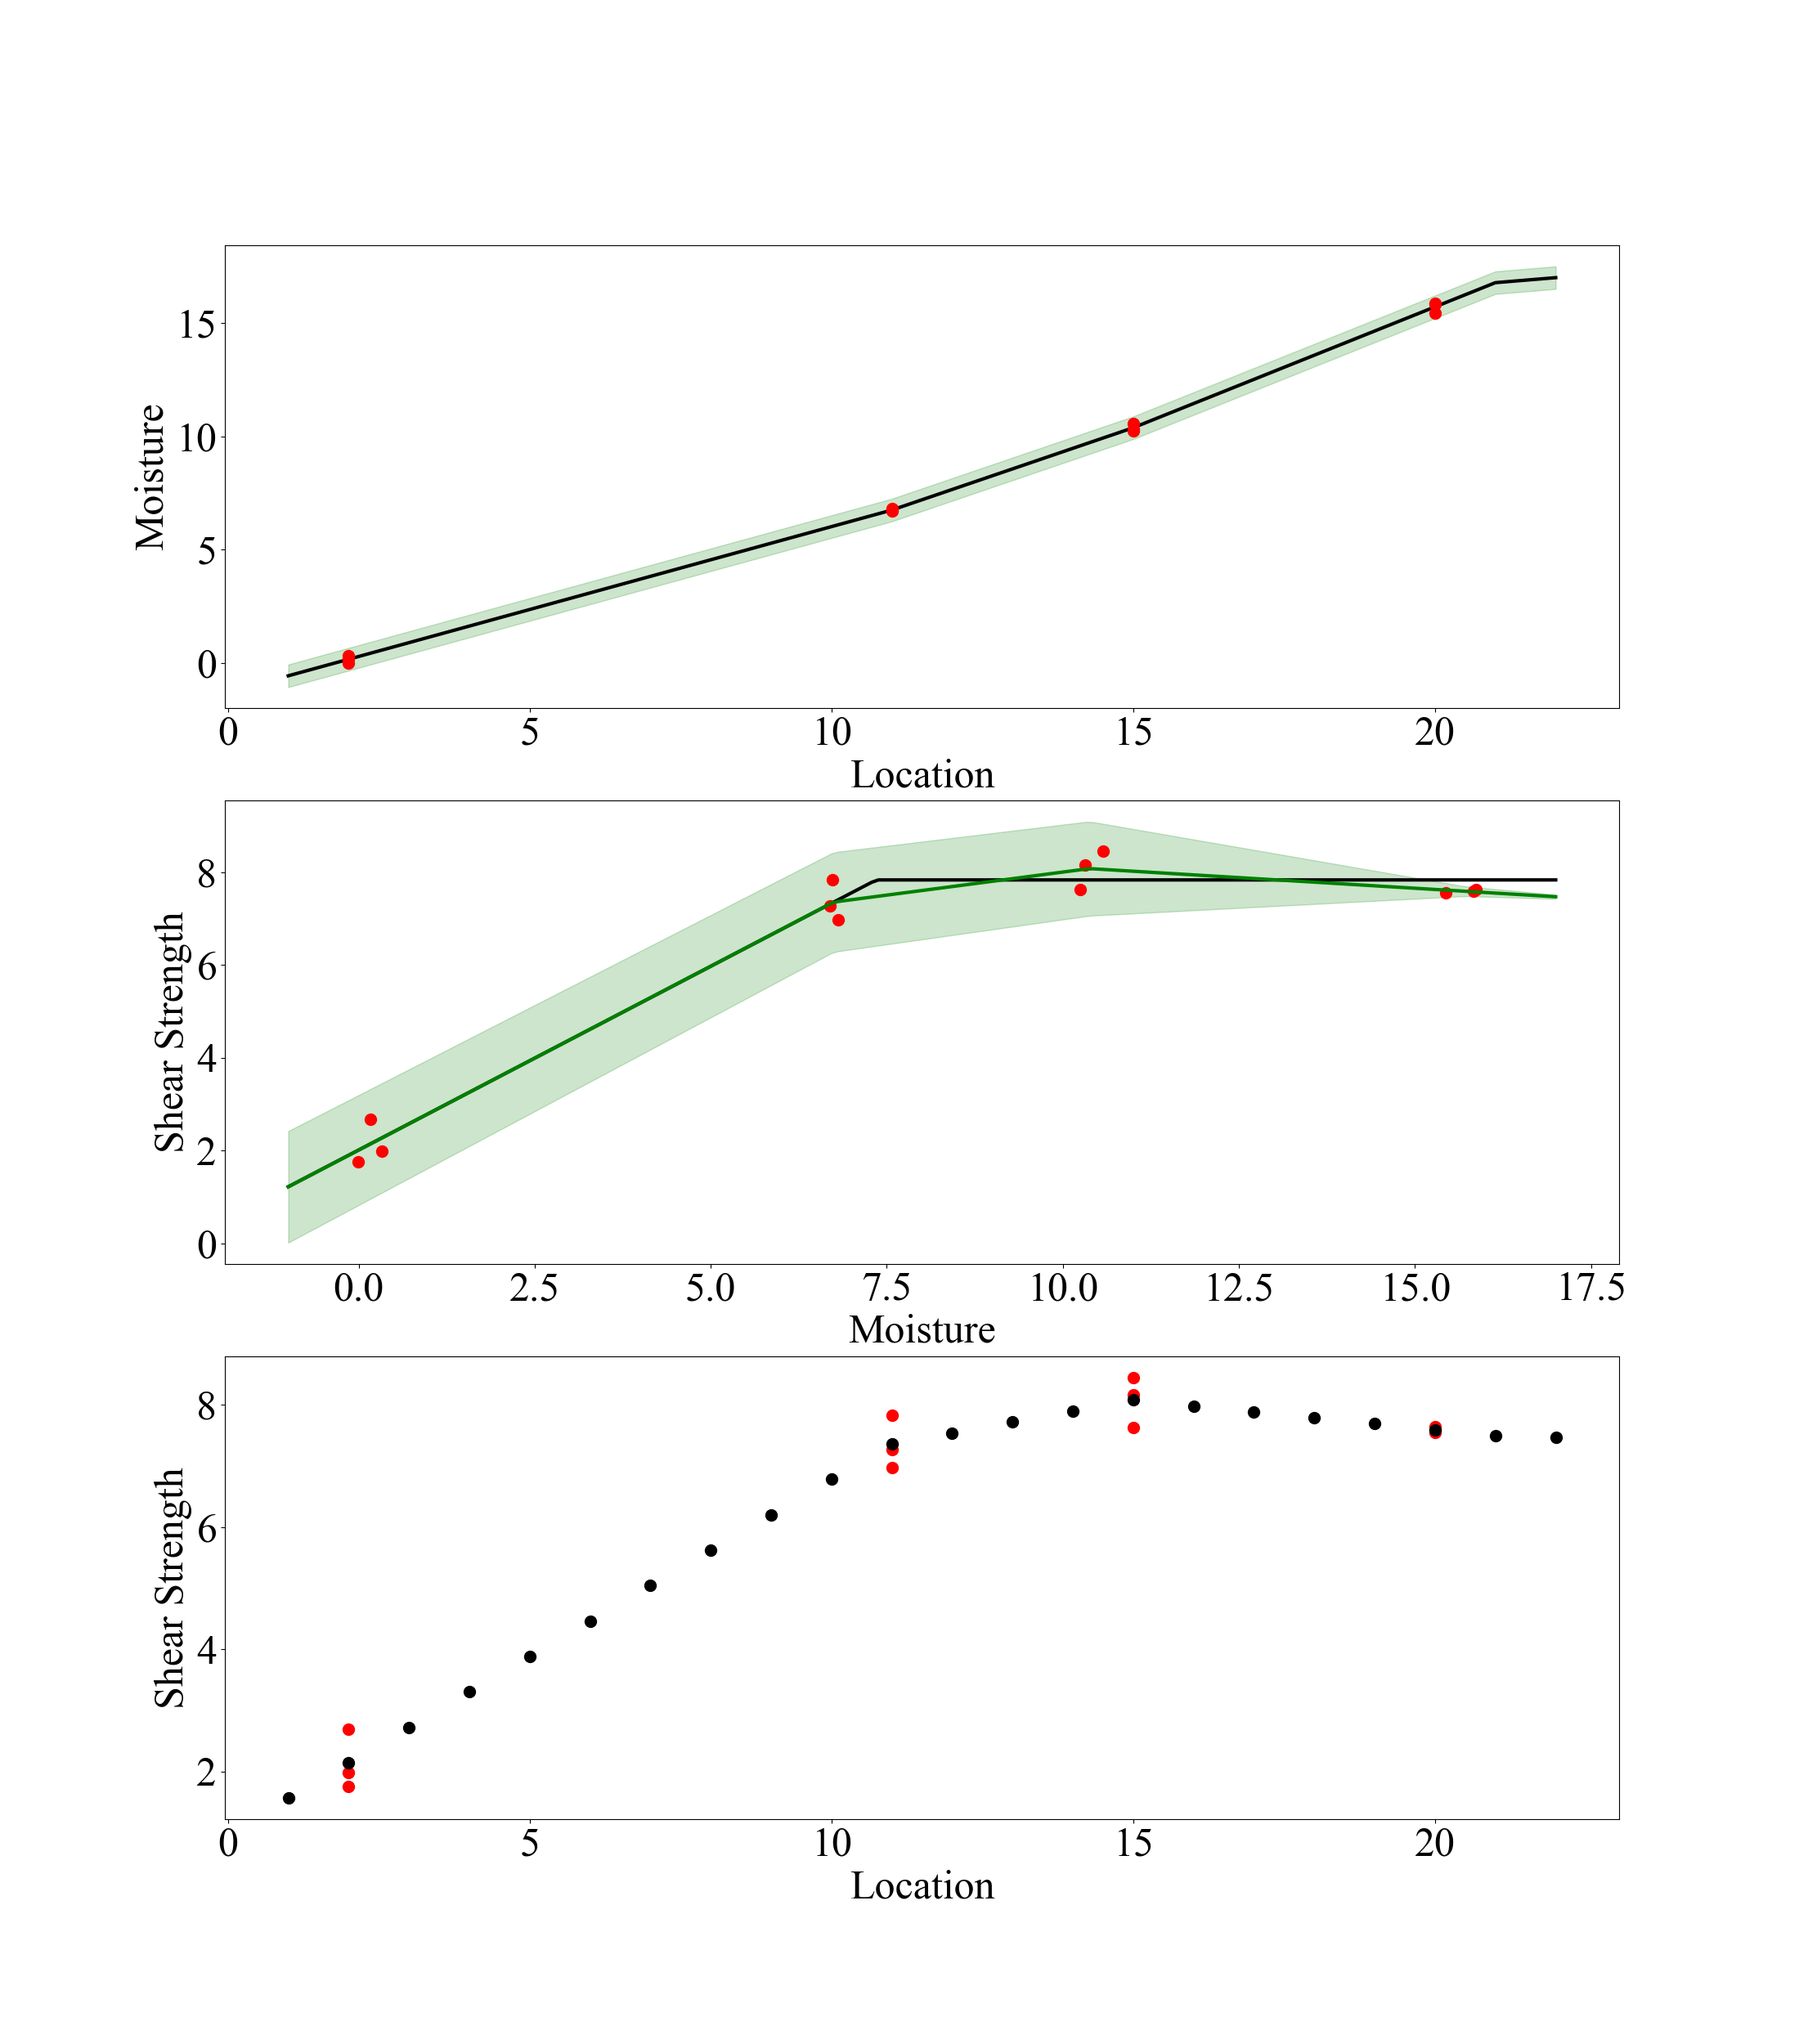
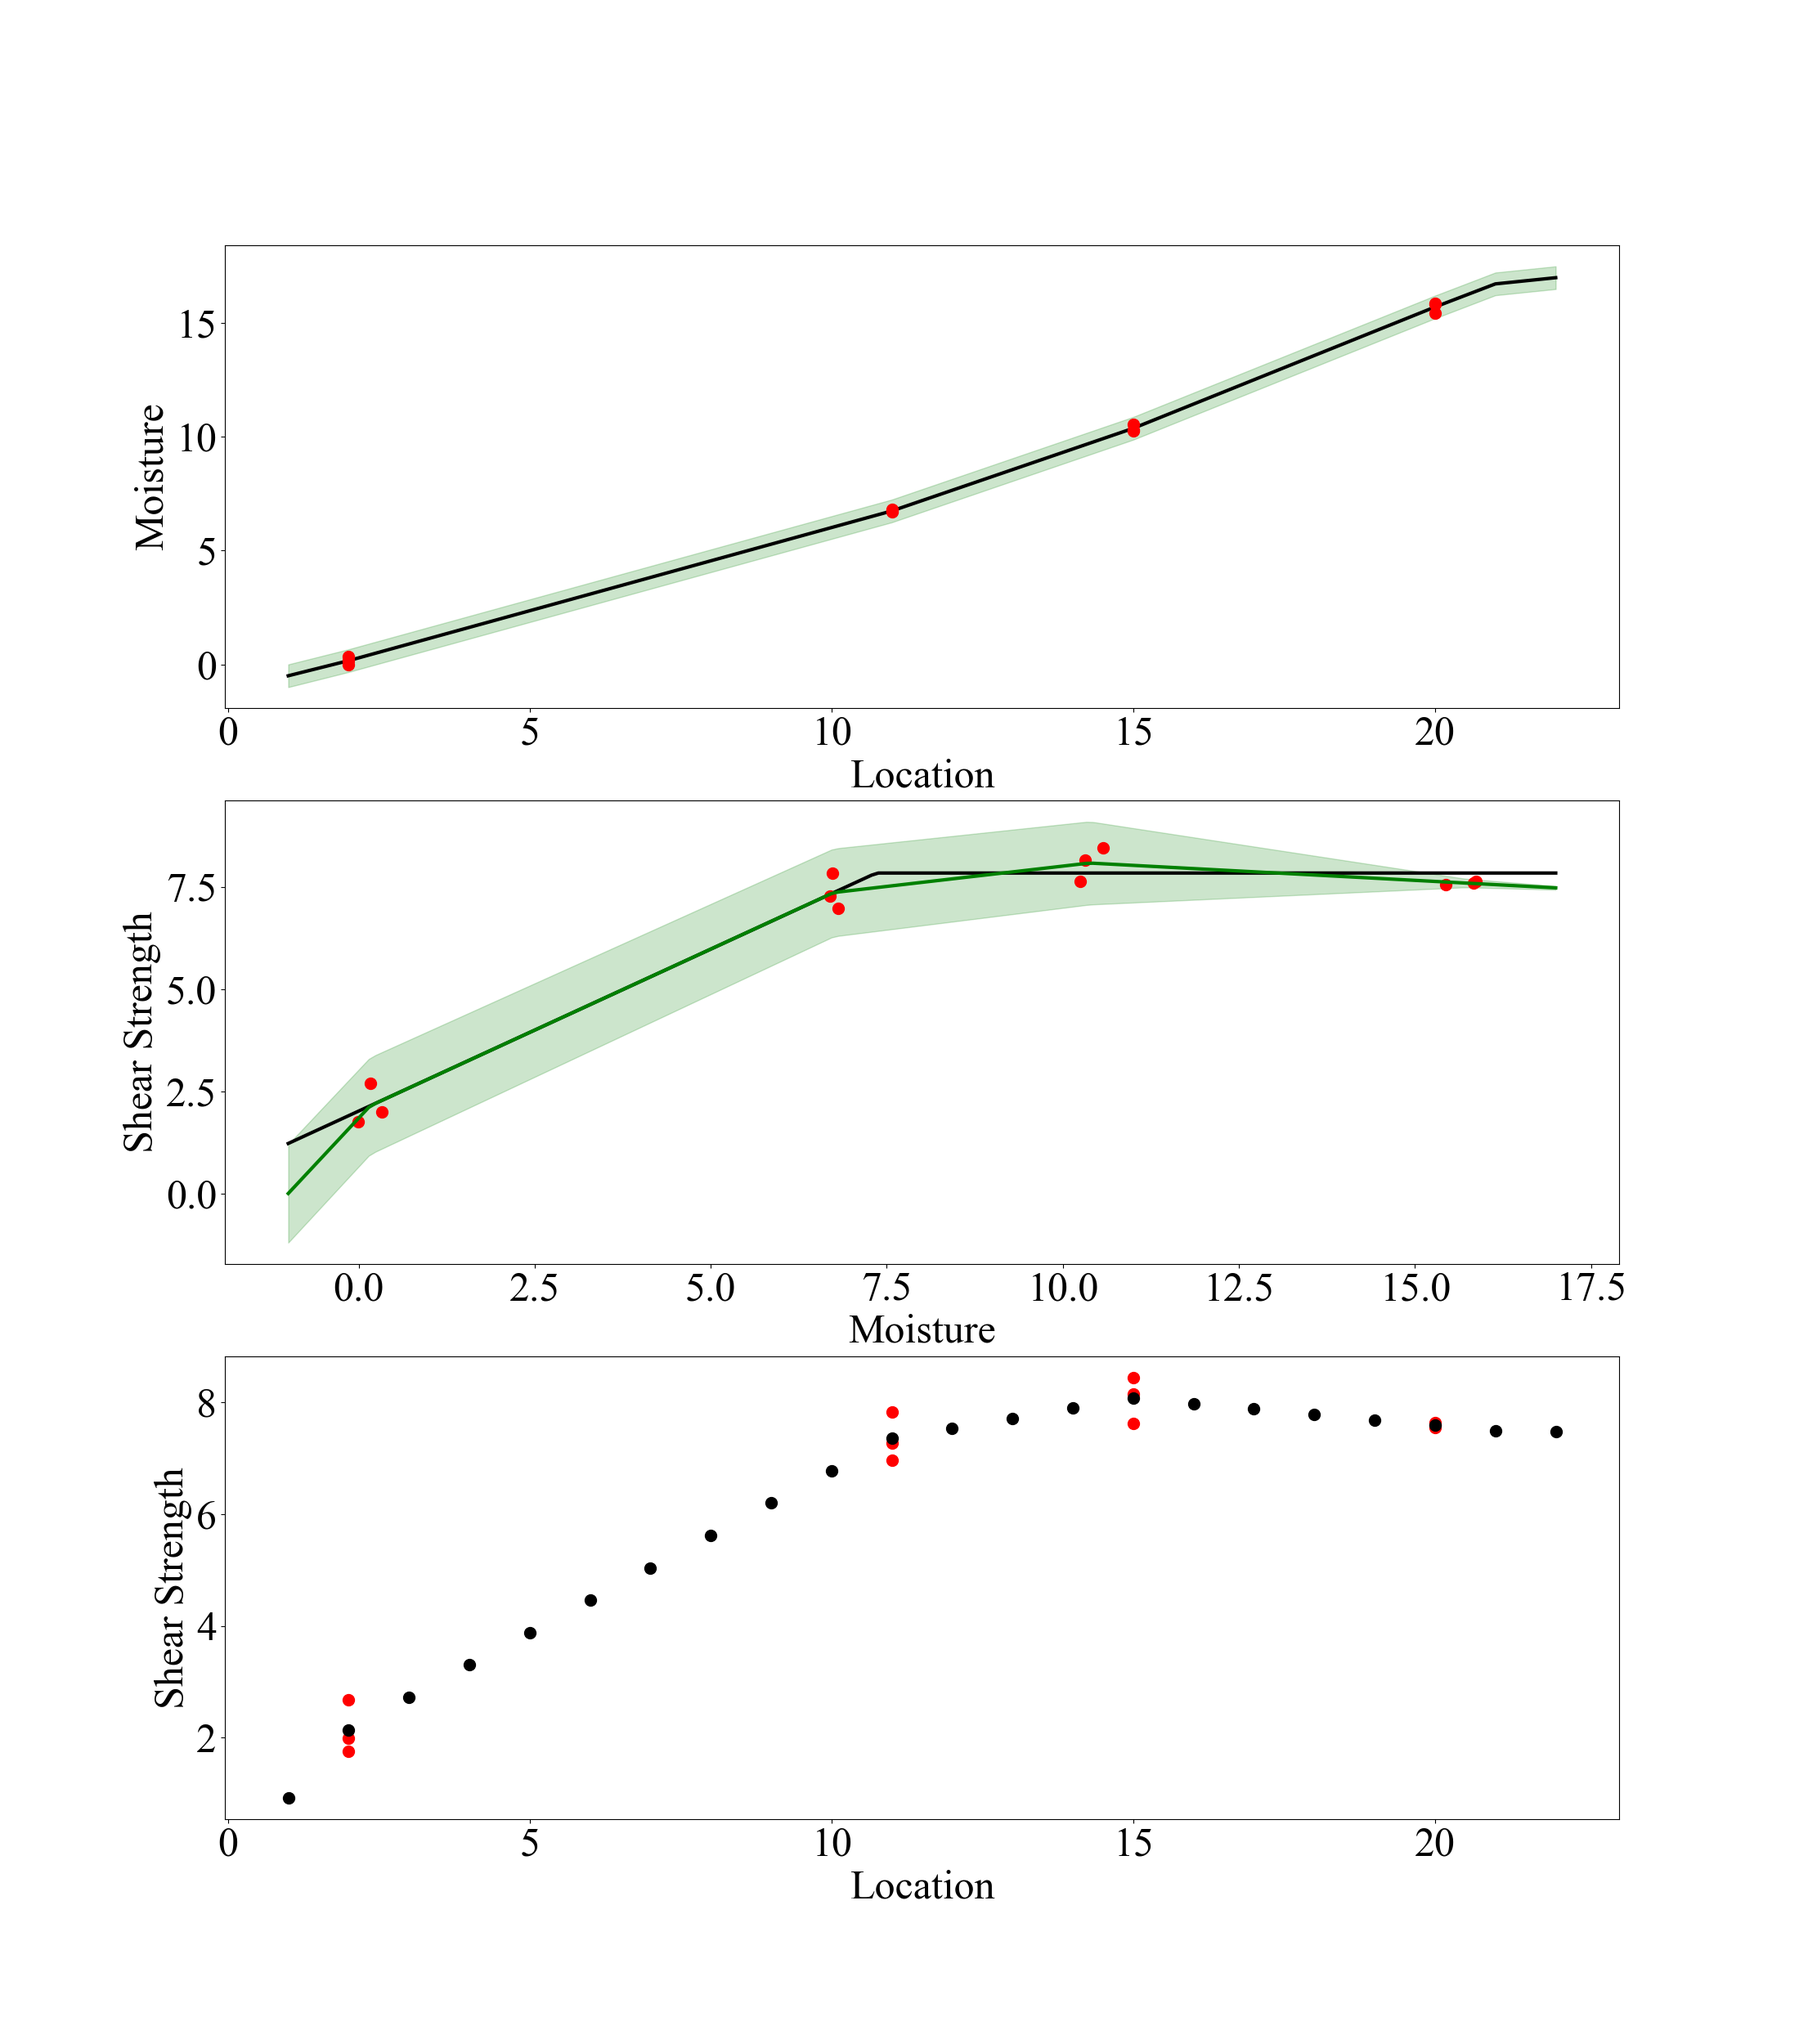
fix: 1. change variable to continuous predicttion;2. fix selection 22 bugs; 3, upgrade debugging plot

diff --git a/flask/traveler_decision_making.py b/flask/traveler_decision_making.py
@@ -308,82 +308,74 @@ class DecisionMaking:
         min_moisture_each = np.zeros(22)
         max_moisture_each = np.zeros(22)
         std_moisture_each = np.zeros(22)
-        for jj in range(len(location)):
-            if(jj == 0):
-                moisture = self.current_state_moisture[jj]
+        location_each = np.linspace(1, 22, 22)
+        for jj in range(len(location_each)):
+            if(location_each[jj] <= location[0]):
+                moisture = self.current_state_moisture[0]
                 moisture_mean = np.mean(moisture)
                 moisture_std = np.std(moisture)
                 ## find the next point b
-                moisture_next = self.current_state_moisture[jj+1]
+                moisture_next = self.current_state_moisture[1]
                 moisture_mean_next = np.mean(moisture_next)
                 moisture_std_next = np.std(moisture_next)
                 ## compute the slope of ab
                 slope = ((moisture_mean_next - moisture_mean) 
-                                / (location[jj+1] - location[jj]))
-                for loc in range(location[jj]):
-                    std_moisture_each[loc] = moisture_std
-                    mean_moisture_each[loc] = moisture_mean - slope * ( 
-                                                        location[jj] - loc - 1)
-                    min_moisture_each[loc] =  min(moisture_mean - 
-                            2 * slope * (location[jj] - 1 - loc), moisture_mean)  
-                    max_moisture_each[loc] = max(moisture_mean - 
-                            2 * slope * (location[jj] - 1 - loc), moisture_mean)
-            elif(jj == len(location) - 1):
-                moisture = self.current_state_moisture[jj]
+                                / (location[1] - location[0]))
+                slope_std = ((moisture_std_next - moisture_std) 
+                                / (location[1] - location[0]))
+                moisture_font = moisture_mean - slope * (location[0] - 1)
+                std_font = max(0, moisture_std - slope_std * (location[0] - 1))
+                m_font = interp1d([0.9, location[0]], [moisture_font, moisture_mean], kind = 'linear')
+                std_m_font = interp1d([0.9, location[0]], [std_font, moisture_std], kind = 'linear')
+                std_moisture_each[jj] = std_m_font(location_each[jj])
+                mean_moisture_each[jj] = m_font(location_each[jj])
+                                        
+            elif(location_each[jj] >= location[len(location)-1]):
+                moisture = self.current_state_moisture[len(location)-1]
                 moisture_mean = np.mean(moisture)
                 moisture_std = np.std(moisture)
-                moisture_prev = self.current_state_moisture[jj-1] 
+                moisture_prev = self.current_state_moisture[len(location)-2] 
                 moisture_mean_prev = np.mean(moisture_prev)
                 moisture_std_prev = np.std(moisture_prev)
-                slope = (moisture_mean - moisture_mean_prev) / (location[jj]
-                             - location[jj-1])
-                for loc in range(location[jj], 22):
-                    std_moisture_each[loc] = moisture_std
-                    mean_moisture_each[loc] = moisture_mean + slope * (
-                                                        loc - location[jj] + 1)
-                    min_moisture_each[loc] =  min(moisture_mean + 
-                            2 * slope * (22 - location[jj]), moisture_mean)  
-                    max_moisture_each[loc] = max(moisture_mean +
-                            2 * slope * (22 - location[jj]), moisture_mean)   
-                for loc in range(location[jj-1], location[jj]):
-                    std_moisture_each[loc] = (moisture_std + moisture_std_prev)/2
-                    mean_moisture_each[loc] = moisture_mean + slope * (loc - 
-                                        location[jj] + 1)
-                    min_moisture_each[loc] = min(moisture_mean_prev, 
-                                        moisture_mean) 
-                    max_moisture_each[loc] = max(moisture_mean_prev,
-                                        moisture_mean) 
+                slope = (moisture_mean - moisture_mean_prev) / (location[len(location)-1]
+                             - location[len(location)-2])
+                slope_std = ((moisture_std - moisture_std_prev) 
+                                / (location[len(location)-1]
+                             - location[len(location)-2]))
+                moisture_end = moisture_mean + slope * (22 - location[len(location)-1])
+                std_end = max(0, moisture_std + slope_std * (22 - location[len(location)-1]))
+                m_end = interp1d([location[len(location)-1], 22.1], [moisture_mean, moisture_end], kind = 'linear')
+                std_m_end = interp1d([location[len(location)-1], 22.1], [moisture_std, std_end], kind = 'linear')
+                std_moisture_each[jj] = std_m_end(location_each[jj])
+                mean_moisture_each[jj] = m_end(location_each[jj])
+                
             else:
-                moisture = self.current_state_moisture[jj]
-                moisture_mean = np.mean(moisture)
-                moisture_std = np.std(moisture)
-                moisture_prev = self.current_state_moisture[jj-1] 
-                moisture_mean_prev = np.mean(moisture_prev)
-                moisture_std_prev = np.std(moisture_prev)
-                slope = (moisture_mean - moisture_mean_prev) / (location[jj]
-                             - location[jj-1])
-                for loc in range(location[jj-1], location[jj]):
-                    std_moisture_each[loc] = (moisture_std + moisture_std_prev)/2
-                    mean_moisture_each[loc] = moisture_mean + slope * (loc - 
-                                        location[jj] + 1)
-                    min_moisture_each[loc] = min(moisture_mean_prev, 
-                                        moisture_mean) 
-                    max_moisture_each[loc] = max(moisture_mean_prev,
-                                        moisture_mean) 
+                moisture = self.current_state_moisture
+                moisture_mean = np.zeros(len(moisture))
+                moisture_std = np.zeros(len(moisture))
+                for i in range(len(moisture)):
+                    moisture_mean[i] = np.mean(moisture[i])
+                    moisture_std[i] = np.std(moisture[i])
+                m_inter = interp1d(location, moisture_mean, kind = 'linear')
+                std_m_inter = interp1d(location, moisture_std, kind = 'linear')
+                std_moisture_each[jj] = std_m_inter(location_each[jj])
+                mean_moisture_each[jj] = m_inter(location_each[jj])
         R_v_set = np.zeros(22)
         std_moisture_each[np.where(std_moisture_each < 0)] = 0
         std_moisture_each[np.where(std_moisture_each > 1)] = 1
         self.std_moisture_each = std_moisture_each
         mean_moisture_each[np.where(mean_moisture_each < -1)] = -1
-        mean_moisture_each[np.where(mean_moisture_each > 17)] = 17
+        mean_moisture_each[np.where(mean_moisture_each > 18)] = 18
         self.mean_moisture_each = mean_moisture_each
-        self.min_moisture_each = min_moisture_each
-        self.max_moisture_each = max_moisture_each
+
         for jj in range(22):
-            std = std_moisture_each[loc]
+            std = std_moisture_each[jj]
             min_std = 0.01
             moisture_possibility = np.linspace(mean_moisture_each[jj] - 3*max(std, min_std), 
                                                 mean_moisture_each[jj] + 3*max(std, min_std), 20)
+            moisture_possibility[np.where(moisture_possibility < -1)] = -1
+            moisture_possibility[np.where(moisture_possibility > 17)] = 17
+            print(moisture_possibility)
             probability = gauss(mean_moisture_each[jj], 1, moisture_possibility,
                                                 max(std, min_std))
             actual_probability = probability/np.sum(probability)
@@ -464,7 +456,7 @@ class DecisionMaking:
                 shearstrength_std_next = yy_std[1]
                 slope = (shearstrengh_mean_next - shearstrength_mean)/(
                                     moisture_mean_next - moisture_mean)
-                shearstrengh_moisture_font = shearstrength_mean - slope * (moisture_mean + 1)
+                shearstrengh_moisture_font = min(0, shearstrength_mean - slope * (moisture_mean + 1))
                 slope_std = (shearstrength_std_next - shearstrength_std)/(
                                     moisture_mean_next - moisture_mean)
                 std_moisture_font = max(0, shearstrength_std - slope_std * (moisture_mean + 1))
@@ -513,6 +505,8 @@ class DecisionMaking:
                                                 self.mean_moisture_each[jj] + 3*std_moist, 20)
             moisture_possibility[np.where(moisture_possibility < -1)] = -1
             moisture_possibility[np.where(moisture_possibility > 17)] = 17
+            self.mean_moisture_each[np.where(self.mean_moisture_each < -1)] = -1
+            self.mean_moisture_each[np.where(self.mean_moisture_each > 17)] = 17
             if(self.mean_moisture_each[jj] <= xx_mean[0]):
                 mean_shear_strength = f_font(self.mean_moisture_each[jj])
             elif(self.mean_moisture_each[jj] >= xx_mean[len(xx_mean)-1]):
@@ -686,22 +680,21 @@ def deploy_plot(Traveler_DM ,sequence, location, sample, mm, erodi, results):
     fig, axs = plt.subplots(3,1, figsize=(22,25))
     x = np.linspace(1,22,22)
     axs[0].plot(x, Traveler_DM.mean_moisture_each, linewidth=3, label="variable_reward", c="black")
-    axs[0].plot(Traveler_DM.current_state_location, Traveler_DM.current_state_moisture, 'o', c="red",markersize=10)
+    for i in range(len(Traveler_DM.current_state_location)):
+        axs[0].plot(Traveler_DM.current_state_location[i] * np.ones(len(Traveler_DM.current_state_moisture[i])), Traveler_DM.current_state_moisture[i], 'o', c="red",markersize=10)
     axs[0].fill_between(np.linspace(1,22,22), Traveler_DM.mean_moisture_each +  0.5, Traveler_DM.mean_moisture_each -  0.5, alpha=0.2, color="green")
     axs[0].set_ylabel('Moisture')
     axs[0].set_xlabel('Location')
     axs[1].plot(Traveler_DM.x_detail_fit, Traveler_DM.xx_detail_model, linewidth=3,  c="black")
-    axs[1].plot(Traveler_DM.current_state_moisture, Traveler_DM.current_state_shear_strength, 'o', c="red",markersize=10)
+    for i in range(len(Traveler_DM.current_state_location)):
+        axs[1].plot(Traveler_DM.current_state_moisture[i], Traveler_DM.current_state_shear_strength[i], 'o', c="red",markersize=10)
     axs[1].plot(Traveler_DM.x_detail_fit, Traveler_DM.shearstrength_predict, c="green", linewidth=3)
     axs[1].fill_between(Traveler_DM.x_detail_fit, Traveler_DM.shearstrength_predict +  3*Traveler_DM.shearstrength_std_each, Traveler_DM.shearstrength_predict - 3*Traveler_DM.shearstrength_std_each, alpha=0.2, color="green")
     axs[1].set_ylabel('Shear Strength')
     axs[1].set_xlabel('Moisture')
     
-    y = np.array(Traveler_DM.current_state_location).reshape((len(Traveler_DM.current_state_location),1))
-    print(y)
-    x = np.tile(y, [1, 3])
-    print(x)
-    axs[2].plot(x, Traveler_DM.current_state_shear_strength,'o',markersize=10, linewidth=3,  c="red")
+    for i in range(len(Traveler_DM.current_state_location)):
+        axs[2].plot(Traveler_DM.current_state_location[i] * np.ones(len(Traveler_DM.current_state_shear_strength[i])), Traveler_DM.current_state_shear_strength[i],'o',markersize=10, linewidth=3,  c="red")
     axs[2].plot(np.linspace(1,22,22), Traveler_DM.mean_shearstrength_each_loc,'o',markersize=10, linewidth=3,  c="black")
     # moisture_index = np.round(Traveler_DM.current_state_moisture)
     # axs[2].plot(moisture_index, Traveler_DM.current_state_shear_strength, 'o', c="red",markersize=10)

diff --git a/flask/test.py b/flask/test.py
@@ -21,8 +21,8 @@ sample_list = list(3 * np.ones(22, dtype=int))
     #         results = Traveler_DM.calculate_suggested_location()
     #         plot(Traveler_DM, location, sample, erodi, results)
 
-location = [2,7,10,14,18]
-sample = [3,3,3,3,3]
+location = [1,2,3,4,5,6,7,8,9,10,11,12,13,14,15,16,17,18,19,20,21,22]
+sample = [3,3,3,3,3,3,3,3,3,3,3,3,3,3,3,3,3,3,3,3,3,3]
 for i in range(1):
     mm, erodi = Traveler_ENV.get_data_state([location,sample])
     
